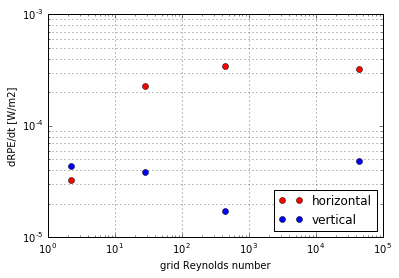
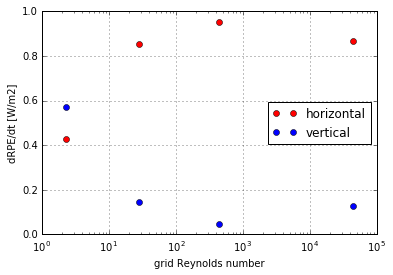
[writing]: Figure/caption changes, remove notes

diff --git a/writing/paper/introduction.md b/writing/paper/introduction.md
@@ -2,9 +2,6 @@
 
 One of the myriad uses of ocean models is in developing ocean heat uptake estimates and overturning circulation predictions. Additionally, the overturning circulation itself affects the wider climate, which manifests when ocean models are used as a component of coupled climate simulations. The problems of ocean heat uptake and overturning circulation are both strongly defined by the density structure of the ocean, which is modified by mixing. For example, mixing at depth controls the abyssal overturning cell that constitutes part of the meridional overturning circulation (Mashayek et al., 2015).
 
-- expand point, since without mixing there is no abyssal overturning
-- mention heat + CO2 uptake associated with overturning, and the crucial role of mixing
-
 Models are unable to accurately constrain the abyssal overturning as the magnitude of spurious diapycnal mixing cannot be completely controlled.
 
 Numerical ocean models are governed by approximations of the incompressible Navier-Stokes equations for momentum, also known as the primitive equations. In these models, the vertical balance is hydrostatic, where the vertical pressure gradient force is balanced by the gravitational force. The mixing of momentum by the unresolved eddy field is parameterised by an explicit eddy viscosity term. Potential density of water parcels is controlled by salinity and potential density through an equation of state. These tracers are advected by the explicitly resolved eddy field, and mixed by the unresolved eddy field through a parameterised eddy diffusion term.
@@ -13,8 +10,6 @@ To solve the primitive equations, ocean models implement some kind of discretisa
 
 ## Spurious mixing
 Mixing processes create fluxes of tracer between grid cells. In ocean models, mixing has two main causes, physical and numerical. A small fraction of physical mixing comes from molecular diffusion. The rest comes advection by numerically unresolved eddies, which is parameterised as a diffusive process. On the other hand, numerical mixing arises from the discretisations and algorithms used by the ocean model in implementing the governing equations. Numerical mixing is also known as spurious mixing and doesn't have any physical basis. For example, first-order upwind advection has numerical diffusion as the leading error term.
-
-- typical estimates, how significant is the mixing?
 
 Spurious mixing is undesirable in ocean models, due to its unphysical nature, and because it may add to the imposed and parameterised mixing to an unknown extent. This affects numerical experiments whose results are contingent on the density structure of the ocean. Ocean heat uptake or overturning circulation strength may be biased or incorrect. One of the considerations in model development and configuration is thus to ensure spurious mixing is minimised.
 
@@ -26,14 +21,9 @@ Furthermore, with an open choice of vertical coordinate, it's not clear which is
 
 To allow generalised vertical coordinates, models often make use of an arbitrary Lagrangian-Eulerian (ALE) scheme. There are two general implementations of ALE in ocean models, depending on the reference frame of the model (Margolin & Shashkov, 2003; Leclair & Madec, 2011). In quasi-Eulerian models, the vertical grid is unable to move during the dynamics phase, when the equations of motion are solved. When a new vertical grid is computed, its motion relative to the old vertical grid is calculated as a vertical velocity, which is then used in a vertical advection equation to move coordinate surfaces (Kasahara, 1974). There is a spurious mixing component associated with the use of an advection scheme in this implementation.
 
-The quasi-Lagrangian algorithm (Hirt et al., 1974) is for models which are implemented in a Lagrangian frame of reference. Here, the vertical grid moves during the dynamics phase. During the regridding phase, the new vertical grid is calculated. Finally, there is the remapping phase, during which the model state is mapped onto the new grid, often with an algorithm that conserves total tracers.
+The quasi-Lagrangian algorithm (Hirt et al., 1974) is for models which are implemented in a Lagrangian frame of reference. Here, the vertical grid moves during the dynamics phase. During the regridding phase, the new vertical grid is calculated. Finally, there is the remapping phase, during which the model state is mapped onto the new grid, often with an algorithm that conserves total tracers. Spurious mixing may occur during the remapping phase, depending on both the new grid and the subgrid scale reconstruction of tracers on the old grid. This is the algorithm used by MOM6, the model we are evaluating.
 
-- mention that we're working with quasi-Lagrangian aka regridding/remapping
-- mention the mechanism by which remapping can spuriously mix -- good link to next paragraph
-
-White & Adcroft (2008) demonstrated the development and implementation of an accurate reconstruction scheme for the remapping stage of ALE, with their piecewise quartic method (PQM). The impacts of different regridding and remapping schemes were considered by White et al. (2009), comparing their spurious diffusion in terms of the change of volume distributions across density classes.
-
-- expand, mention how we can contribute
+White & Adcroft (2008) demonstrated the development and implementation of an accurate reconstruction scheme for the remapping stage of ALE, with their piecewise quartic method (PQM). The impacts of different regridding and remapping schemes were considered by White et al. (2009), comparing their spurious mixing in terms of the change of volume distributions across density classes. Neither of these studies explicitly quantified the spurious mixing in terms of the entire spurious mixing present in the model, or a comparison to the spurious mixing by advection. Formulating this comparison is one of the aims of this paper.
 
 ## Evaluating/diagnosing spurious mixing
 In attempting to evaluate the performance of numerical schemes with regard to spurious mixing, there is no consensus on the diagnostic technique to use. Griffies et al. (2000) used an effective diapycnal diffusivity, which allows for direct comparison between the spurious mixing and expected oceanic values. However, because it uses a reference density profile compiled from the entire domain, the effective diffusivity is only a single idealised vertical profile, and can't be mapped back to real space in any meaningful manner.
@@ -58,5 +48,3 @@ As MPAS-O is a quasi-Eulerian model, there is a resolved transport across vertic
 
 ## Section conclusion, tie to rest of report
 This paper has two main aims. Firstly, to evaluate the performance of another ALE model, MOM6 against the models exhibited by Ilicak et al. and Petersen et al. The comparison is made using both the standard configurations, and with a coordinate that is unique to MOM6, continuous isopycnal. Secondly, a method is proposed for using RPE changes to separate the contributions of horizontal and vertical processes (i.e. advection and ALE). This method allows for the evaluation of different advection schemes, and different orders of interpolation in ALE, and is proposed as a useful tool in comparing between different vertical coordinates.
-
-- highlight holes in current research, and where my contributes fit in

diff --git a/writing/paper/internal-waves.md b/writing/paper/internal-waves.md
@@ -16,9 +16,7 @@ $$\Theta'(x,z) = -A\cos\left(\frac{\pi}{2L}(x - x_0)\right) \sin\left(\pi\frac{z
 
 is added in the region $x_0 - L < x < x_0 + L$, where $L = 50\,\mathrm{km}$, $x_0 = 125\,\mathrm{km}$. Only the high-amplitude case, with perturbation amplitude $A = 2^\circ\mathrm{C}$ is used, as it is the only case also presented by Petersen et al. (2015). The waves set up by this perturbation have a period of approximately one day, so the test case is run for 100 days to allow the waves to propagate many times across the full extent of the domain.
 
-![\label{fig:drpe} *Averaged RPE rate of change*](plots/internal_waves_drpe.png)
-
-- mention that this uses Petersen's data
+![\label{fig:drpe} *Averaged RPE rate of change*. MPAS-O, MITGCM and MOM results come from Petersen et al. (2015). MOM6 performs comparably or better to models using the same vertical coordinate.](plots/internal_waves_drpe.png)
 
 Considering the average rate of RPE change (Figure \ref{fig:drpe}), MOM6 performs well for each of the chosen vertical coordinates; z-star, z-tilde and continuous isopycnal (rho). This is likely due to its implementation as a layered model while ALE is applied. In this configuration, vertical layers are able to move freely within their column as waves pass through. During horizontal advection, there is exactly zero transport through vertical interfaces, so mixing occurs only laterally through a mostly isopycnal layer. The vertical coordinate becomes more isopycnal with the z-tilde and rho coordinates, thus regridding causes smaller displacement of the interfaces. Subsequently, there is less vertical transport due to remapping and the overall spurious mixing is reduced.
 
@@ -26,20 +24,10 @@ The implementation of the z-tilde coordinate differs between MOM6 and MPAS-O. Th
 
 ### Spurious mixing orientation
 
-![\label{fig:drpesplit} *Spurious mixing orientation in MOM6, displayed as the averaged RPE rate of change for the horizontal and vertical components*](plots/internal_waves_drpe_split.png)
-
-- show fractional change for this and the next figure
+![\label{fig:drpesplit} *Relative contributions to spurious mixing by horizontal and vertical processes. Each contribution is the fraction of the averaged total RPE rate of change.*](plots/internal_waves_drpe_split.png)
 
 We take the z-star configuration of MOM6 (shown in magenta in Figure \ref{fig:drpe}) and compute the orientation of the spurious mixing. When $\mathrm{Re}_\Delta < 10$, the horizontal component is smaller than the vertical. This is consistent with the conclusion of Ilicak et al. (2012), that the grid Reynolds number must be below 10 to avoid the saturation level of spurious mixing. In this regime, the vertical configuration such as coordinate or reconstruction accuracy can have a significant imapct on the overall spurious mixing. There's a minimum in the vertical contribution at $\nu_h = 1\,\mathrm{m}^2\mathrm{s}^{-1}$, corresponding to $\mathrm{Re}_\Delta \approx 400$.
 
 ![\label{fig:tildesplit} *Relative contributions to spurious mixing for the z-tilde vertical coordinate by orientation. Each component is the fraction of the averaged total RPE rate of change shown in Figure \ref{fig:drpe}*](plots/internal_waves_tilde_split.png)
 
 Figure \ref{fig:tildesplit} shows the relative contributions to the total RPE rate of change by the horizontal and vertical components. There is once again a minimum in the contribution by the vertical component at $\nu_h = 1$, corresponding to $\mathrm{Re}_\Delta \approx 450$.
-
-### Other things?
-- Not sure what else to say about the split results
-- Explanation/exploration of continuous isopycnal coordinate
-- Poor behaviour of PLM remapping? -- importance of sufficiently high-order remapping scheme
-    - We've kind of mentioned that it's a vertically dominated test case
-- Say something about the significance of results
-    - perhaps the compensation in RPE despite the saturation of spurious mixing according to grid Re criterion

diff --git a/writing/paper/lock-exchange.md b/writing/paper/lock-exchange.md
@@ -6,9 +6,7 @@ classoption: twocolumn
 
 The lock exchange test case is a simple configuration that shows the creation of intermediate densities by spurious mixing. This is a replication of one of the test cases presented by Ilicak et al. (2012). The test case takes place in a two-dimensional domain of 64km width and 20m depth. Only the highest resolution test cases are chosen, with horizontal and vertical grid spacings of $\Delta x = 500\,\mathrm{m}$ and $\Delta z = 1\,\mathrm{m}$, respectively. The lock exchange is defined by an initial temperature distribution comprised of one density class on each side of the domain,
 
-![\label{fig:snapshot} Snapshot of lock exchange after 17 hours at $\nu_h = 0.01\,\mathrm{m}^2\,\mathrm{s}^{-1}$](plots/lock_exchange_snapshot_0.01.png)
-
-- mention colours, axis labels, mention that intermediate densities are all spuriously mixed
+![\label{fig:snapshot} Snapshot of lock exchange after 17 hours at $\nu_h = 0.01\,\mathrm{m}^2\,\mathrm{s}^{-1}$. Temperature is shown in colours. Spurious mixing at the front can be seen by the presence of many intermediate temperatures.](plots/lock_exchange_snapshot_0.01.png)
 
 $$\Theta(x) = \begin{cases}
 5 & x < 32\text{ km}\\
@@ -20,11 +18,9 @@ $$u_f = \frac12 \sqrt{gH \rho'}$$
 
 When calculating the grid Reynolds number, the theoretical front velocity is used instead of the actual mean velocity over the domain. All runs were carried out for 17 hours using a baroclinic timestep that satisfied CFL conditions across the range of horizontal viscosities ($\nu_h = 0.01, 0.1, 1, 10, 100, 200\,\text{m}^2\text{s}^{-1}$).
 
-![\label{fig:rpenorm} Normalised RPE evolution for $\nu_h = 0.01$](plots/lock_exchange_rpe_norm.png)
+![\label{fig:rpenorm} Normalised RPE evolution for $\nu_h = 0.01$. MPAS-O, MITGCM and MOM results come from Petersen et al. (2015). MOM6 exhibits a larger increase in RPE due to spurious mixing.](plots/lock_exchange_rpe_norm.png)
 
-![\label{fig:drpe} RPE change at 17h](plots/lock_exchange_drpe.png)
-
-- make it clear that this uses Petersen's data
+![\label{fig:drpe} Instantaneous rate of RPE change at 17h. MPAS-O and MITGCM results come from Petersen et al. (2015).](plots/lock_exchange_drpe.png)
 
 The time series of normalised RPE in Figure \ref{fig:rpenorm} shows MOM6 having a similar shape to MitGCM and MOM5. However, the curve steepens with time, suggesting that more spurious mixing is occurring in MOM6.
 
@@ -41,8 +37,6 @@ One aspect of model configuration that may significantly affect spurious mixing 
 Figure \ref{fig:rpesplit} shows that the mixing is predominantly due to horizontal processes. Indeed, for all of the experiments, the average RPE change due to regridding/remapping is actually negative. Physically, this means that regridding/remapping tends to slightly lower the centre of mass of the domain, counteracting some of the mixing due to the advection scheme.
 
 From a physical viewpoint, we expect RPE to be an increasing quantity. However, Figure \ref{fig:rpesplit} shows that the vertical process of regridding/remapping causes a small RPE decrease in these experiments. We illustrate a simple example that demonstrates how the combination of regridding/remapping may create a decrease in total potential energy. For a single column case, this is equivalent to the RPE, assuming no density inversions.
-
-**move this section to theory**
 
 ![\label{fig:schematic} A schematic demonstrating the ability for regridding/remapping to cause a decrease in RPE](plots/schematic.png)
 

diff --git a/writing/paper/baroclinic-eddies.md b/writing/paper/baroclinic-eddies.md
@@ -15,6 +15,9 @@ where $\Theta_0(z)$ is a linearly stratified background between 10.1 C and 13.1 
 
 $$y'_w(x) = y_0 - \frac{y_A}{2}\sin\left(\pi \frac{x - x_2}{x_3 - x_2}\right).$$
 
+![\label{fig:snapshot} Snapshot of surface temperature after 320 days of simulation at 1km horizontal resolution at high grid Reynolds number (low viscosity).](plots/eddies_snapshot_dx1_1.png)
+![\label{fig:snapshot} Snapshot of surface temperature after 320 days of simulation at 1km horizontal resolution at low grid Reynolds number (high viscosity).](plots/eddies_snapshot_dx1_200.png)
+
 The perturbation itself is defined by the temperature anomaly
 
 $$\Theta'(x,y) = \Delta\Theta'\left(1 - \frac{y - y'_w(x)}{\Delta y / 2}\right)$$
@@ -36,3 +39,5 @@ When the horizontal resolution is decreased to 4km, MOM6 exhibits slighly greate
 ![\label{fig:split_4} Spurious mixing orientation at 4km resolution](plots/eddies_drpe_split_4.png)
 
 ![\label{fig:split_1} Spurious mixing orientation at 1km resolution](plots/eddies_drpe_split_1.png)
+
+**For some reason the split results don't sum to the mean (?)**
